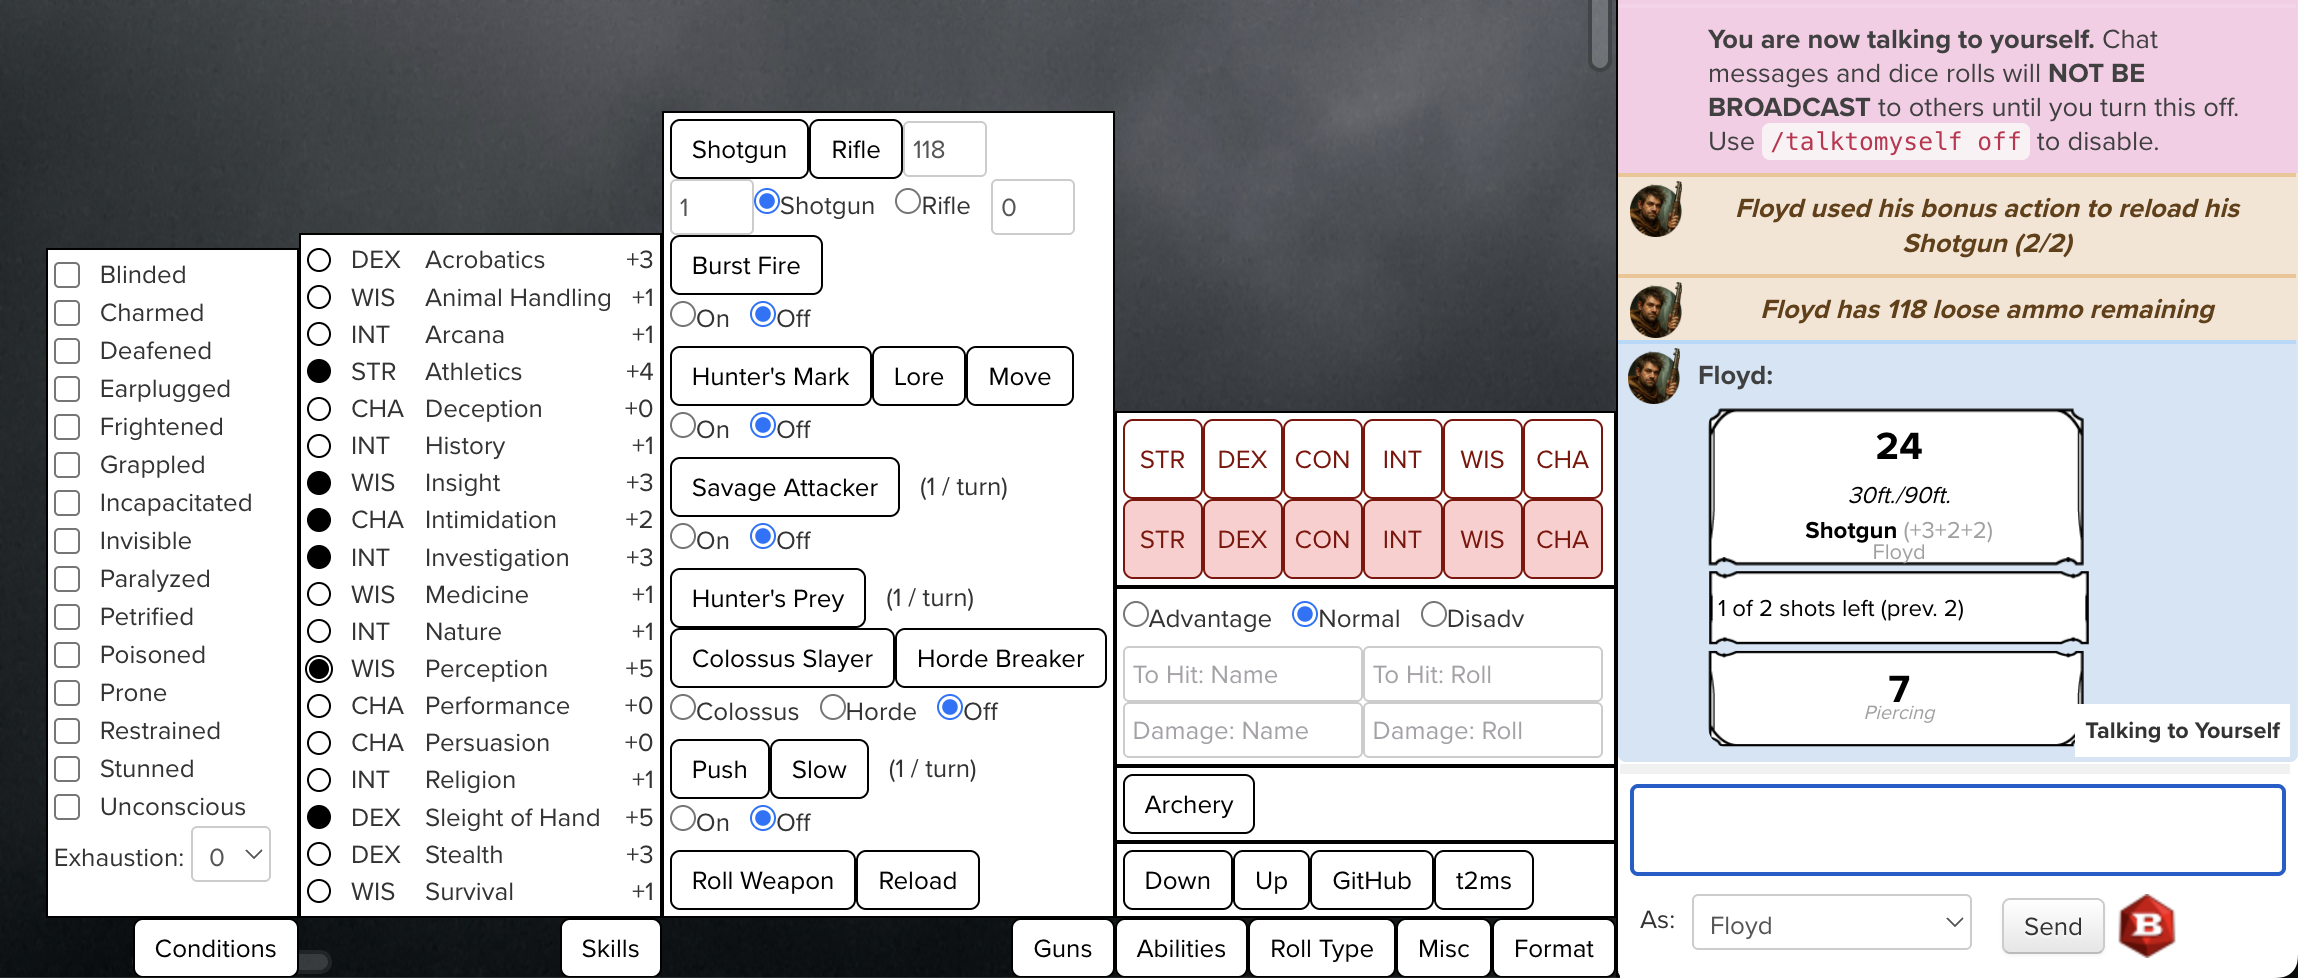
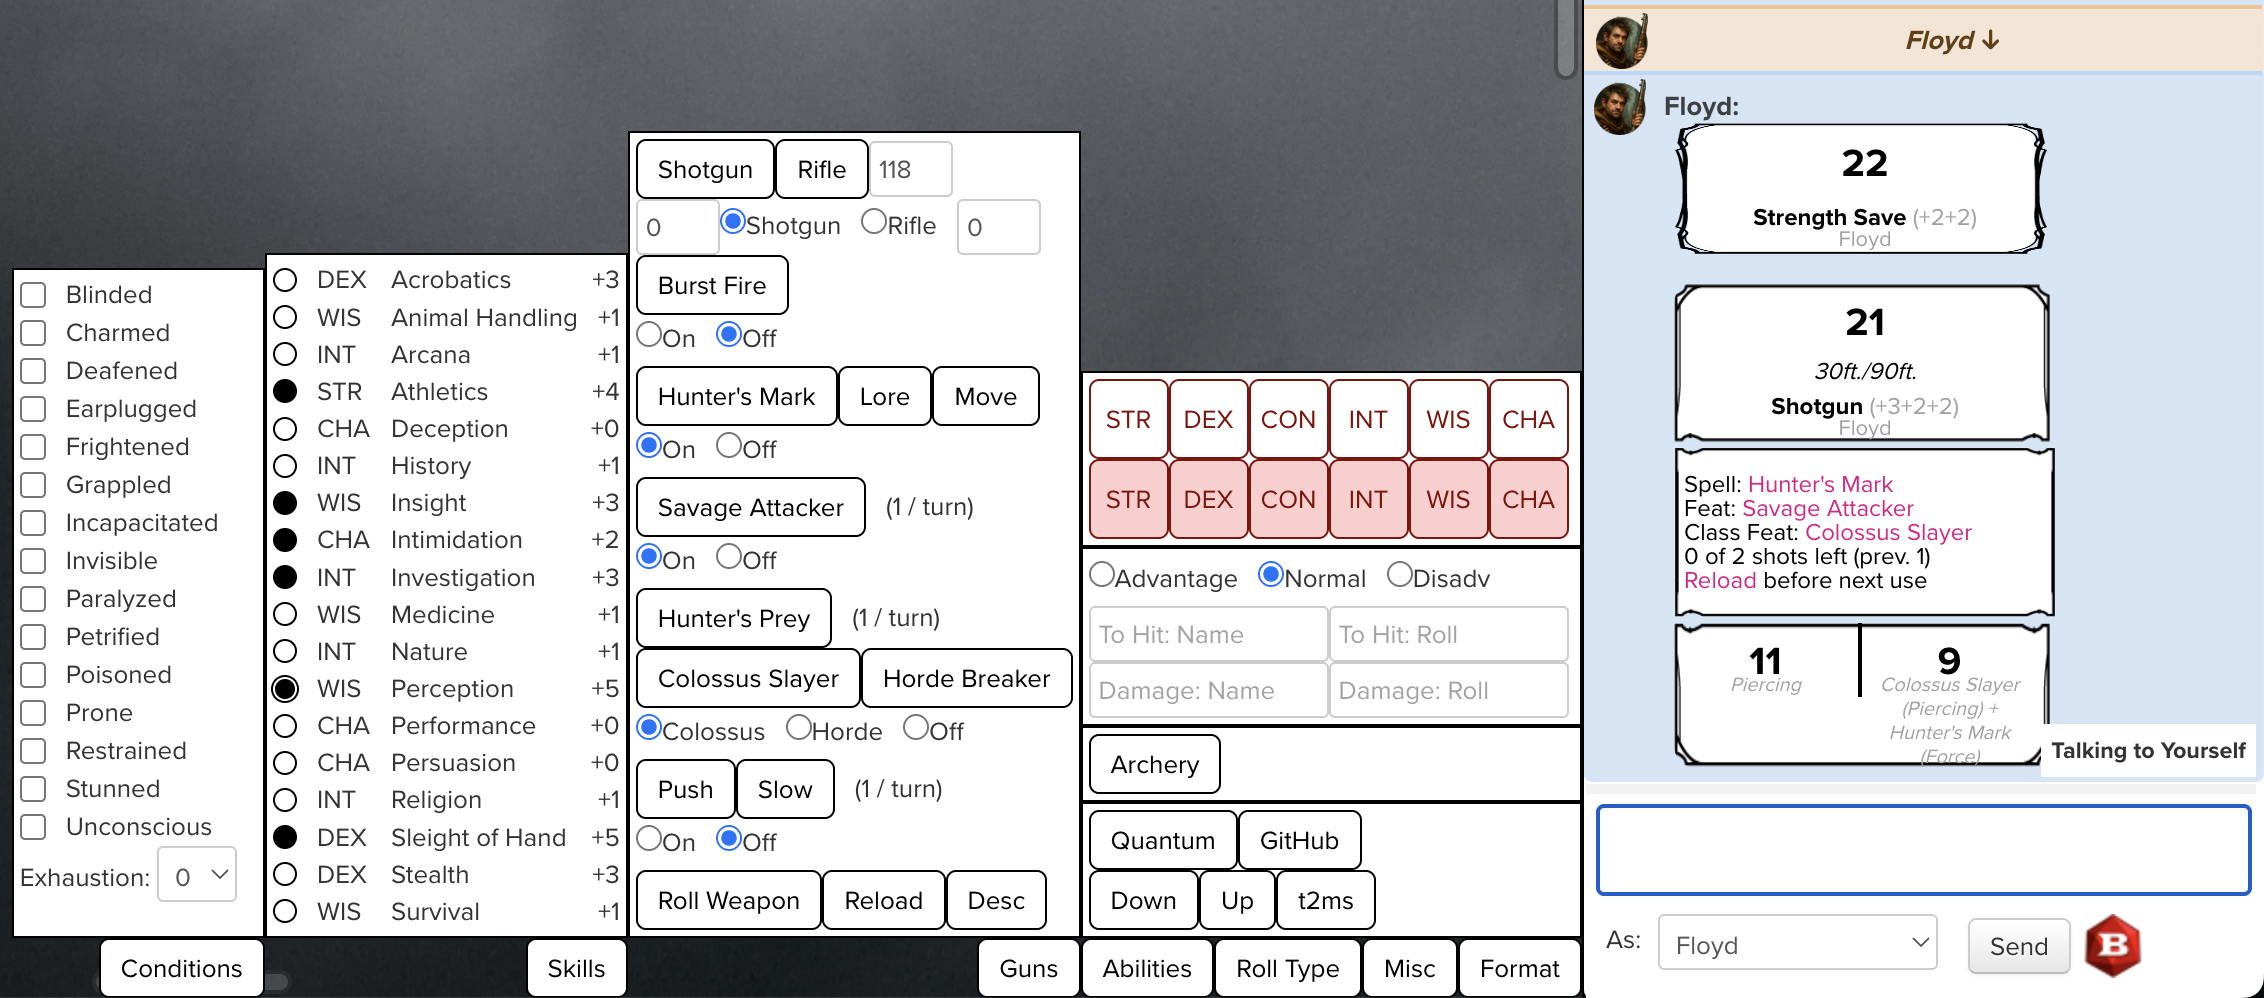
fixing references and stuff

diff --git a/roll20-character-sheet/character-sheet.js b/roll20-character-sheet/character-sheet.js
@@ -24,52 +24,52 @@ const huntersMark = `&{template:spell} ` +
 const huntersMove = `&{template:traits} ` +
   `{{charname=${CHARACTER_NAME}}} ` +
   `{{name=Move Hunter's Mark}} ` +
-  `{{source=&#8193;[Hunter's Mark](https://www.dndbeyond.com/spells/2619166-hunters-mark)}} ` +
+  `{{source=&#8193;[D&D Free Rules (2024)](https://www.dndbeyond.com/spells/2619166-hunters-mark)}} ` +
   `{{description=If the target drops to 0 Hit Points before this spell ends, you can take a Bonus Action to move the mark to a new creature you can see within range.}}`;
 const huntersLore = `&{template:traits} ` +
   `{{charname=${CHARACTER_NAME}}} ` +
   `{{name=Hunter's Lore}} ` +
-  `{{source=&#8193;[Ranger Subclass: Hunter](https://www.dndbeyond.com/sources/dnd/free-rules/character-classes#Hunter)}} ` +
+  `{{source=&#8193;[D&D Free Rules (2024)](https://www.dndbeyond.com/sources/dnd/free-rules/character-classes#Hunter)}} ` +
   `{{description=While a creature is marked by your Hunter's Mark, you know whether that creature has any Immunities, Resistances, or Vulnerabilities, and if the creature has any, you know what they are.}}`;
 const savageAttacker = `&{template:traits} ` +
   `{{charname=${CHARACTER_NAME}}} ` +
   `{{name=Savage Attacker}} ` +
-  `{{source=&#8193;[Origin: Soldier](https://www.dndbeyond.com/sources/dnd/free-rules/character-origins#Soldier)}} ` +
+  `{{source=&#8193;[D&D Free Rules (2024)](https://www.dndbeyond.com/sources/dnd/free-rules/character-origins#Soldier)}} ` +
   `{{description=Once per turn when you hit a target with a weapon, you can roll the weapon's damage dice twice and use either roll against the target.}}`;
 const huntersPrey = `&{template:traits} ` +
   `{{charname=${CHARACTER_NAME}}} ` +
   `{{name=Hunter's Prey}} ` +
-  `{{source=&#8193;[Ranger Subclass: Hunter](https://www.dndbeyond.com/sources/dnd/free-rules/character-classes#Hunter)}} ` +
+  `{{source=&#8193;[D&D Free Rules (2024)](https://www.dndbeyond.com/sources/dnd/free-rules/character-classes#Hunter)}} ` +
   `{{description=You gain one of the following feature options of your choice: Colossus Slayer or Horde Breaker. Whenever you finish a Short or Long Rest, you can replace the chosen option with the other one.}}`;
 const colossusSlayer = `&{template:traits} ` +
   `{{charname=${CHARACTER_NAME}}} ` +
   `{{name=Colossus Slayer}} ` +
-  `{{source=&#8193;[Hunter's Prey](https://www.dndbeyond.com/sources/dnd/free-rules/character-classes#Level3HuntersPrey)}} ` +
+  `{{source=&#8193;[D&D Free Rules (2024)](https://www.dndbeyond.com/sources/dnd/free-rules/character-classes#Level3HuntersPrey)}} ` +
   `{{description=Once per turn when you hit a creature with a weapon, the weapon deals an extra [1d8](!\n) damage to the target if it's missing any of its Hit Points.}}`;
 const hordeBreaker = `&{template:traits} ` +
   `{{charname=${CHARACTER_NAME}}} ` +
   `{{name=Horde Breaker}} ` +
-  `{{source=&#8193;[Hunter's Prey](https://www.dndbeyond.com/sources/dnd/free-rules/character-classes#Level3HuntersPrey)}} ` +
+  `{{source=&#8193;[D&D Free Rules (2024)](https://www.dndbeyond.com/sources/dnd/free-rules/character-classes#Level3HuntersPrey)}} ` +
   `{{description=Once on each of your turns when you make an attack with a weapon, you can make another attack with the same weapon against a different creature that is within 5 feet of the original target, that is within the weapon's range, and that you haven't attacked this turn.}}`;
 const pushDescription = `&{template:traits} ` +
   `{{charname=${CHARACTER_NAME}}} ` +
   `{{name=Push}} ` +
-  `{{source=&#8193;[Weapon Mastery: Shotgun](https://www.dndbeyond.com/sources/dnd/dmg-2024/dms-toolbox#FirearmsTable)}} ` +
+  `{{source=&#8193;[Dungeon Master's Guide (2024)](https://www.dndbeyond.com/sources/dnd/dmg-2024/dms-toolbox#FirearmsTable)}} ` +
   `{{description=If you hit a creature with a Shotgun, you can push the creature up to 10 feet straight away from yourself if it is Large or smaller.}}`;
 const slowDescription = `&{template:traits} ` +
   `{{charname=${CHARACTER_NAME}}} ` +
   `{{name=Slow}} ` +
-  `{{source=&#8193;[Weapon Mastery: Automatic Rifle](https://www.dndbeyond.com/sources/dnd/dmg-2024/dms-toolbox#FirearmsTable)}} ` +
+  `{{source=&#8193;[Dungeon Master's Guide (2024)](https://www.dndbeyond.com/sources/dnd/dmg-2024/dms-toolbox#FirearmsTable)}} ` +
   `{{description=If you hit a creature with an Automatic Rifle and deal damage to it, you can reduce its Speed by 10 feet until the start of your next turn. If the creature is hit more than once by weapons that have this property, the Speed reduction doesn't exceed 10 feet.}}`;
 const rifleDescription = `&{template:traits} ` +
   `{{charname=${CHARACTER_NAME}}} ` +
   `{{name=Rifle, Automatic}} ` +
-  `{{source=&#8193;[Dungeon Master’s Guide (2024)](https://www.dndbeyond.com/sources/dnd/dmg-2024/dms-toolbox#FirearmsTable)}} ` +
+  `{{source=&#8193;[Dungeon Master's Guide (2024)](https://www.dndbeyond.com/sources/dnd/dmg-2024/dms-toolbox#FirearmsTable)}} ` +
   `{{description=**Proficient**: Yes (Brian said so)\n**Attack Type**: Ranged\n**Range**: 80ft./240ft.\n**Damage**: [2d8+3](!\n)\n**Damage Type**: Piercing\n**Weight**: 8lb.\n**Cost**: --\n**Properties**: [Ammunition (Firearms)](https://www.dndbeyond.com/sources/dnd/dmg-2024/dms-toolbox#Ammunition), Range, [Reload](https://www.dndbeyond.com/sources/dnd/dmg-2024/dms-toolbox#Reload) (30 shots), Two-Handed, [Burst Fire](https://www.dndbeyond.com/sources/dnd/dmg-2024/dms-toolbox#BurstFire), [Slow](https://www.dndbeyond.com/sources/dnd/free-rules/equipment#Slow)}}`;
 const shotgunDescription = `&{template:traits} ` +
   `{{charname=${CHARACTER_NAME}}} ` +
   `{{name=Shotgun}} ` +
-  `{{source=&#8193;[Dungeon Master’s Guide (2024)](https://www.dndbeyond.com/sources/dnd/dmg-2024/dms-toolbox#FirearmsTable)}} ` +
+  `{{source=&#8193;[Dungeon Master's Guide (2024)](https://www.dndbeyond.com/sources/dnd/dmg-2024/dms-toolbox#FirearmsTable)}} ` +
   `{{description=**Proficient**: Yes (Brian said so)\n**Attack Type**: Ranged\n**Range**: 30ft./90ft.\n**Damage**: [2d8+3](!\n)\n**Damage Type**: Piercing\n**Weight**: 7lb.\n**Cost**: --\n**Properties**: [Ammunition (Firearms)](https://www.dndbeyond.com/sources/dnd/dmg-2024/dms-toolbox#Ammunition), Range, [Reload](https://www.dndbeyond.com/sources/dnd/dmg-2024/dms-toolbox#Reload) (2 shots), Two-Handed, [Push](https://www.dndbeyond.com/sources/dnd/free-rules/equipment#Push)}}`;
 const burstFireDescription = `&{template:traits} ` +
   `{{charname=${CHARACTER_NAME}}} ` +
@@ -80,19 +80,22 @@ const reloadDescription = `&{template:spell} ` +
   `{{charname=${CHARACTER_NAME}}} ` +
   `{{name=Reload}} ` +
   `{{castingtime=1 bonus action}} ` +
-  `{{v=1}} ` +
-  `{{source=[Dungeon Master's Guide (2024)](https://www.dndbeyond.com/sources/dnd/dmg-2024/dms-toolbox#Reload)}}` + 
-  `{{description=You can make a limited number of shots with a Reload weapon. You must then reload the weapon as an action or a Bonus Action.}}`;
+  `{{m=1}} {{material=[Ammunition](https://www.dndbeyond.com/sources/dnd/dmg-2024/dms-toolbox#Ammunition)}} ` +
+  `{{description=**Source:** [Dungeon Master's Guide (2024)](https://www.dndbeyond.com/sources/dnd/dmg-2024/dms-toolbox#Reload) \nYou can make a limited number of shots with a Reload weapon. You must then reload the weapon as an action or a Bonus Action.}}`;
 const archeryDescription = `&{template:traits} ` +
   `{{charname=${CHARACTER_NAME}}} ` +
   `{{name=Archery}} ` +
   `{{source=&#8193;[D&D Free Rules (2024)](https://www.dndbeyond.com/sources/dnd/free-rules/feats#Archery)}} ` +
-  `{{description=Fighting Style Feat (Prerequisite: [Fighting Style Feature](https://www.dndbeyond.com/sources/dnd/free-rules/character-classes#FighterClassFeatures))\n\nYou gain a [+2](!\n) bonus to attack rolls you make with Ranged weapons.}}`;
-const extensionDescription = `&{template:traits} ` +
+  `{{description=Fighting Style Feat (Prerequisite: [Fighting Style Feature](https://www.dndbeyond.com/sources/dnd/free-rules/character-classes#Level2RangerFightingStyle))\n\nYou gain a [+2](!\n) bonus to attack rolls you make with Ranged weapons.}}`;
+const extensionDescription = `/ooc &{template:traits} ` +
   `{{name=Roll20 Character Sheet}} ` +
   `{{charname=elliscode}}` + 
   `{{source=&#8193;[GitHub](https://github.com/elliscode/roll20-character-sheet)}} ` +
-  `{{description=On-screen character sheet overlay for use in Roll20, still a work in progress, and lots of stuff is still hardcoded for ${CHARACTER_NAME}.}}`
+  `{{description=On-screen character sheet overlay for use in Roll20, still a work in progress, and lots of stuff is still hardcoded for ${CHARACTER_NAME}.}}`;
+const quantumRollDescription = `/ooc &{template:traits} ` +
+  `{{name=QuantumRoll}} ` +
+  `{{source=[roll20.net](https://app.roll20.net/home/quantum)}} ` +
+  `{{description=Dice rolls on Roll20 are processed by QuantumRoll to provide true randomness in each roll. The engine itself is powered by a powerful, thoroughly-tested RNG, seeded by an [entropy source deriving from quantum fluctuations](http://en.wikipedia.org/wiki/Hardware_random_number_generator#Physical_phenomena_with_quantum-random_properties).}}`;
 
 const proficiencies = {
   not: {key: 'not', display: 'Not Proficient', bonus: '+0'},
@@ -840,6 +843,13 @@ function buildGunPanel(panel) {
       button.addEventListener('click', reloadFirearm);
       thisDiv.appendChild(button);
     }
+    {
+      const button = document.createElement('button');
+      button.innerText = 'Desc';
+      button.setAttribute('message', reloadDescription)
+      button.addEventListener('click', characterSheetExtensionSendMessage);
+      thisDiv.appendChild(button);
+    }
     panel.appendChild(thisDiv);
   }
 }
@@ -947,6 +957,25 @@ function buildFormattingPanel(panel) {
     thisDiv.classList.add('flex-row');
     {
       const button = document.createElement('button');
+      button.innerText = 'Quantum';
+      button.setAttribute('message', quantumRollDescription);
+      button.addEventListener('click', characterSheetExtensionSendMessage);
+      thisDiv.appendChild(button);
+    }
+    {
+      const button = document.createElement('button');
+      button.innerText = 'GitHub';
+      button.setAttribute('message', extensionDescription)
+      button.addEventListener('click', characterSheetExtensionSendMessage);
+      thisDiv.appendChild(button);
+    }
+    panel.appendChild(thisDiv);
+  }
+  {
+    const thisDiv = document.createElement('div');
+    thisDiv.classList.add('flex-row');
+    {
+      const button = document.createElement('button');
       button.innerText = 'Down';
       button.setAttribute('message', `/em &darr;`)
       button.addEventListener('click', characterSheetExtensionSendMessage);
@@ -956,13 +985,6 @@ function buildFormattingPanel(panel) {
       const button = document.createElement('button');
       button.innerText = 'Up';
       button.setAttribute('message', `/em &uarr;`)
-      button.addEventListener('click', characterSheetExtensionSendMessage);
-      thisDiv.appendChild(button);
-    }
-    {
-      const button = document.createElement('button');
-      button.innerText = 'GitHub';
-      button.setAttribute('message', extensionDescription)
       button.addEventListener('click', characterSheetExtensionSendMessage);
       thisDiv.appendChild(button);
     }
@@ -1140,6 +1162,10 @@ function reloadFirearm() {
   let ammoElement = document.querySelector('input.ammo[type="number"]');
   let ammo = parseInt(ammoElement.value);
   let weapon = document.querySelector('input[name="weapon"]:checked').value;
+  if (ammo <= 0) {
+    characterSheetExtensionSendMessage(`/em doesn't have enough ammo to reload his ${rname[weapon]}`);
+    return;
+  }
   let shotsInput = document.querySelector(`input.shots.${weapon}[type="number"]`);
   let shots = parseInt(shotsInput.value);
   let bulletsToAdd = Math.min(Math.min(weaponAmmo[weapon].shots - shots, weaponAmmo[weapon].shots), ammo);
@@ -1147,8 +1173,7 @@ function reloadFirearm() {
     ammo = ammo - bulletsToAdd;
     shots = shots + bulletsToAdd;
     characterSheetExtensionSendMessage(
-      `/em used his bonus action to reload his ${rname[weapon]} (${shots}/${weaponAmmo[weapon].shots})` + '\n' +
-      `/em has ${ammo} loose ammo remaining`
+      `/em reloaded his ${rname[weapon]} (${shots}/${weaponAmmo[weapon].shots}), and has ${ammo} loose ammo remaining`
     );
     ammoElement.value = `${ammo}`;
     shotsInput.value = `${shots}`;
@@ -1164,7 +1189,7 @@ function findParentWithClass(element, className) {
   }
   return current;
 }
-setTimeout(buildUi, 4000);
+setTimeout(buildUi, 4900);
 setInterval(characterSheetExtensionPositionGui, 5000);
 setTimeout(characterSheetExtensionSendMessage, 5000, '/talktomyself');
 setTimeout(setTalking, 5100, CHARACTER_NAME);
